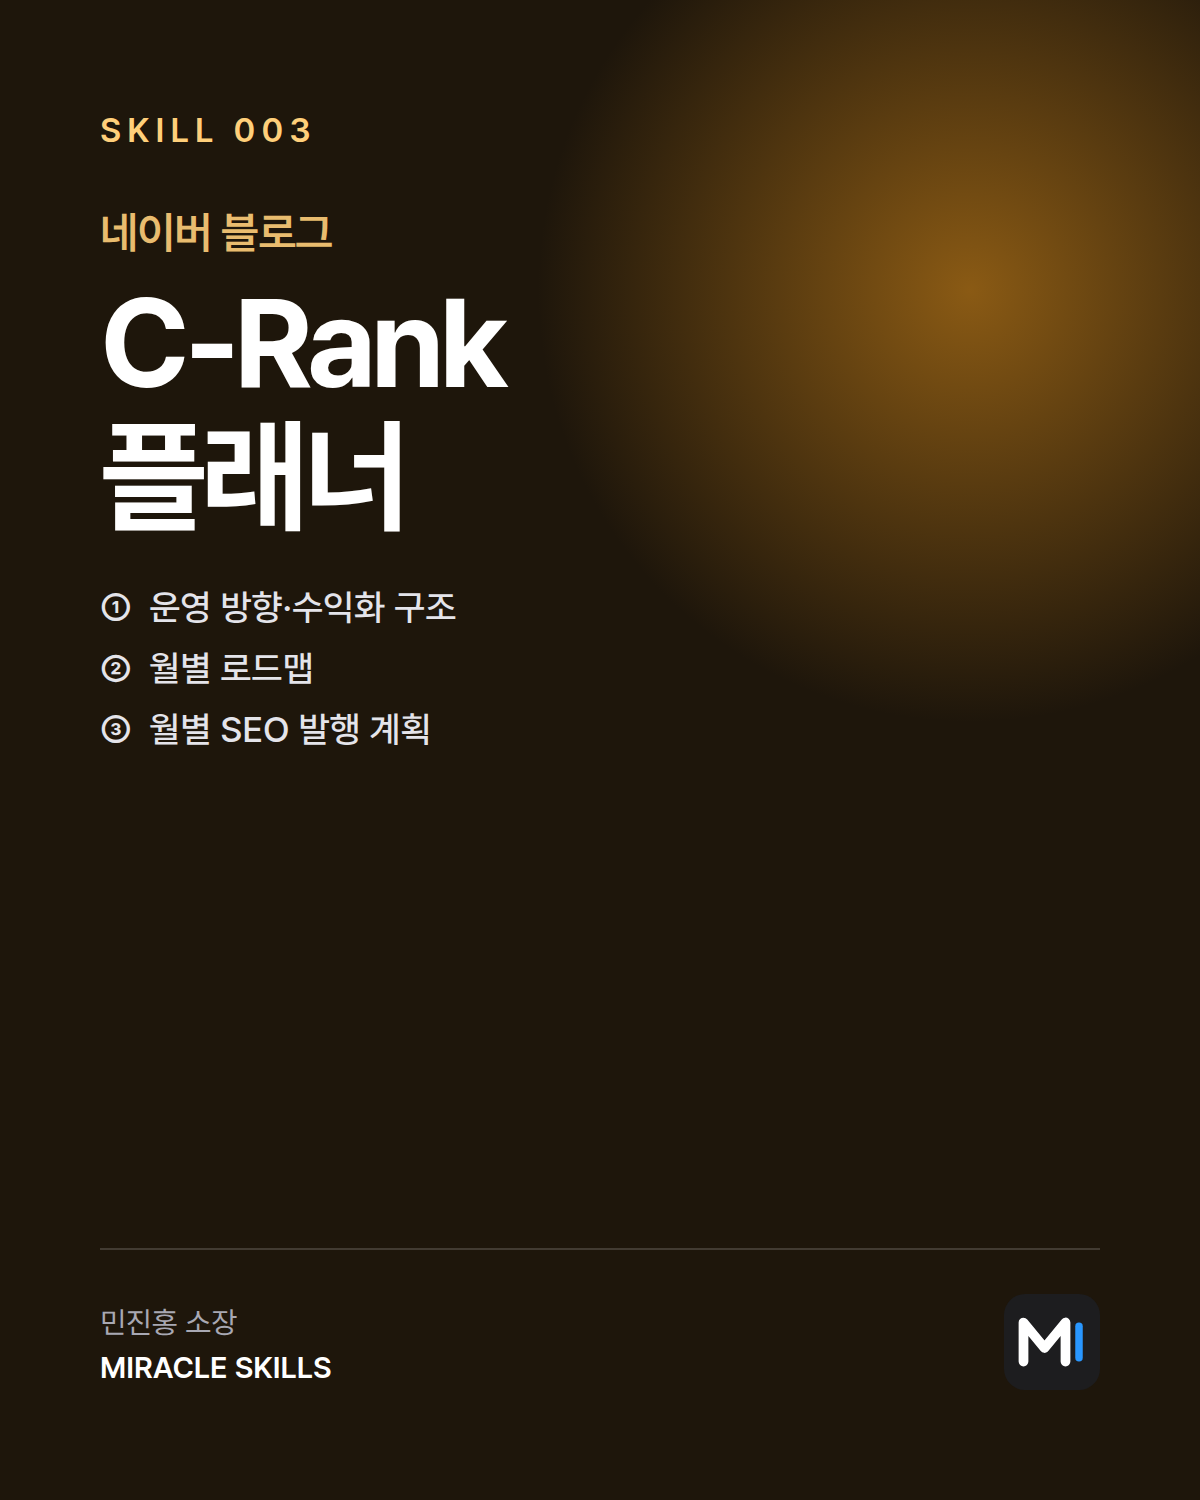
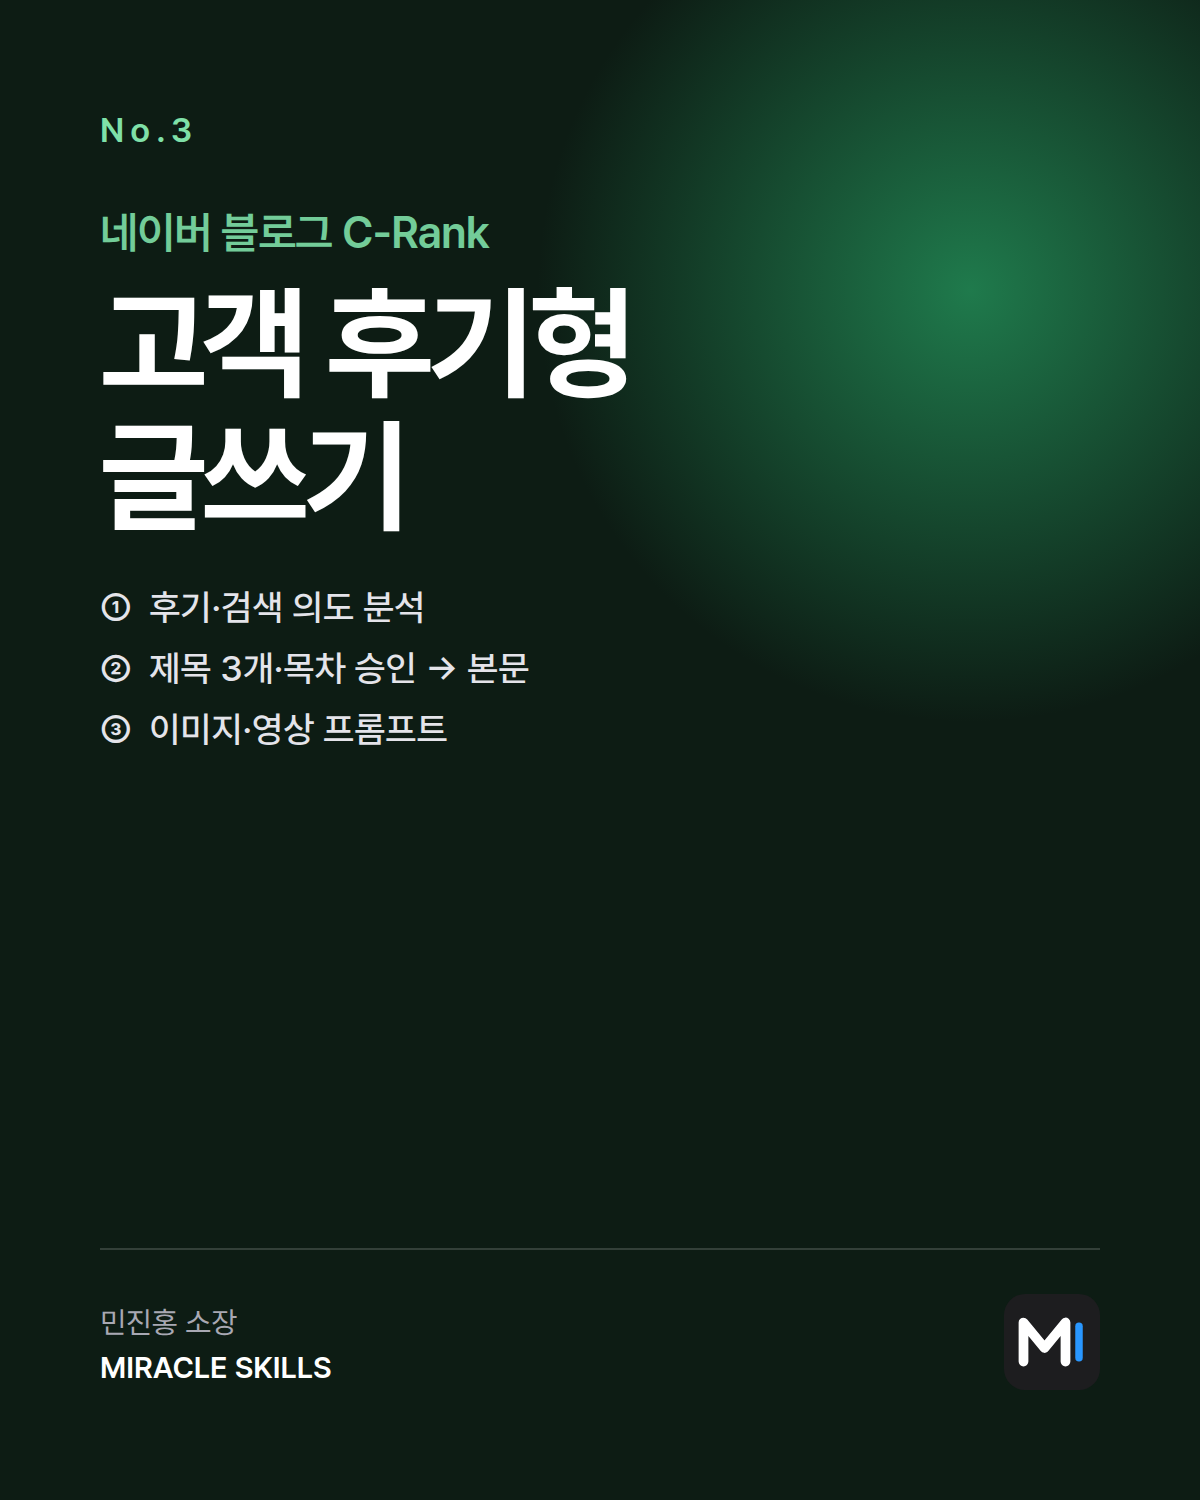
스킬 9개 넘버링(No.1~9)으로 재정렬, 전자책 스킬 3개 추가
- No.1 SNS 멀티플랫폼 ~ No.6 C-Rank 플래너 순서로 파일 번호와 제목 정리
- No.7 전자책 출판 지원 솔루션, No.8 기존 원고 기반 전자책 제작, No.9 처음부터 전자책 제작 1 추가
- 표지 9개를 No. 번호로 다시 생성, 화면 번호 표시를 SKILL 001 → No.1로 변경

Claude-Session: https://claude.ai/code/session_01RKeS3wnK7x6F4KLYFL4mie

Changed region(s): [[0.0617, 0.0, 1.0, 0.46], [0.1233, 0.3987, 0.4317, 0.5213], [0.0925, 0.0613, 0.2775, 0.092]]

diff --git a/skills-data.js b/skills-data.js
@@ -16,26 +16,26 @@ window.SKILLS = [
   {
     "id": "001",
     "no": 1,
-    "title": "네이버 블로그 C-Rank·고객 후기형 SEO 글쓰기",
-    "summary": "실제 고객 후기를 바탕으로 신뢰할 수 있는 네이버 블로그 글과 이미지·영상 프롬프트를 설계합니다.",
+    "title": "SNS 멀티플랫폼 (X, 인스타그램, 스레드, 페이스북) 콘텐츠 제작",
+    "summary": "하나의 자료를 SNS 4개 플랫폼에 맞게 재구성하고, 추천 게시물과 이미지 프롬프트를 준비합니다.",
     "month": "2026-10",
     "always": false,
     "tags": [
-      "네이버블로그",
-      "C-Rank",
-      "고객후기"
+      "SNS",
+      "인스타그램",
+      "스레드"
     ],
     "price": 110000,
     "memberPrice": 55000,
     "pay": "",
     "memberPay": "",
     "image": "skills/001.png",
-    "body": "## 상품 설명\n\n실제 고객 후기를 중심으로 네이버 블로그 글을 작성하는 스킬입니다. 키워드와 고객 경험에서 검색 의도를 파악해 제목 3개와 목차를 제안합니다. 승인 후 실제 이용 과정과 확인된 내용을 바탕으로 본문·FAQ·해시태그를 작성합니다.\n\n없는 감정이나 성과를 꾸며내지 않고 후기의 의미를 보존합니다. 본문을 평가·보완하고 인포그래픽·실사 이미지 프롬프트를 제공합니다. 행동 자료가 있으면 영상 프롬프트도 설계합니다. 이미지·영상은 생성하지 않으며 복사용 원고를 출력합니다.\n\n## 주요 기능\n\n- 실제 고객 후기·경험을 분석하여 SEO 제목 3개·목차·블로그 본문 작성\n- 고객 사례의 사실성·의미를 보존하며 본문 품질 평가 및 자동 보완\n- 인포그래픽·실사 이미지 프롬프트와 조건부 영상 프롬프트 제공"
+    "body": "## 상품 설명\n\n키워드나 기존 자료를 X, 인스타그램, 스레드, 페이스북에 맞게 재구성하는 스킬입니다. 플랫폼별 글 길이와 문체, 템플릿을 반영해 게시물 후보를 만들고 고객과 핵심 메시지에 적합한 추천안을 선정합니다.\n\n게시 목적과 고객을 확인한 뒤 플랫폼별 추천 게시물 3개와 추천 이유를 제공합니다. X·인스타그램·페이스북에는 인포그래픽과 실사 이미지 프롬프트도 제시합니다. 중간 평가와 승인 후 수정본과 최종 평가를 출력하며, 확인되지 않은 경험이나 성과는 추가하지 않습니다.\n\n## 주요 기능\n\n- X·인스타그램·스레드·페이스북별 콘텐츠 재구성 및 20개 전용 템플릿 활용\n- 플랫폼별 게시물 후보 평가 및 상위 3개 추천안과 추천 이유 제공\n- 인포그래픽·실사 이미지 프롬프트 작성 및 승인 기반 품질 평가·수정"
   },
   {
     "id": "002",
     "no": 2,
-    "title": "네이버 블로그 C-Rank·경험형 SEO 글쓰기",
+    "title": "네이버 블로그 C-Rank·경험형 글쓰기",
     "summary": "검색 의도에 맞는 네이버 블로그 글과 이미지·영상 제작 프롬프트를 함께 설계하는 글쓰기 스킬입니다.",
     "month": "2026-10",
     "always": false,
@@ -54,26 +54,26 @@ window.SKILLS = [
   {
     "id": "003",
     "no": 3,
-    "title": "네이버 블로그 C-Rank 플래너",
-    "summary": "사업과 고객의 고민을 바탕으로 블로그 수익화 방향부터 장기 로드맵과 월별 SEO 발행 계획까지 설계합니다.",
+    "title": "네이버 블로그 C-Rank 고객 후기형 글쓰기",
+    "summary": "실제 고객 후기를 바탕으로 신뢰할 수 있는 네이버 블로그 글과 이미지·영상 프롬프트를 설계합니다.",
     "month": "2026-10",
     "always": false,
     "tags": [
       "네이버블로그",
       "C-Rank",
-      "운영계획"
+      "고객후기"
     ],
     "price": 110000,
     "memberPrice": 55000,
     "pay": "",
     "memberPay": "",
     "image": "skills/003.png",
-    "body": "## 상품 설명\n\n사업 분야와 핵심 고객, 고객이 겪는 문제를 확인해 네이버 블로그 운영 방향과 수익화 연결 구조를 설계합니다. 콘텐츠 카테고리와 비중을 제안하고 승인을 받아 원하는 운영 기간의 월별 로드맵을 작성합니다.\n\n첫 달에는 발행 횟수에 맞춰 SEO 제목과 검색 의도, 콘텐츠 역할을 담은 글별 계획을 제공합니다. 이후 누적 콘텐츠의 중복과 포화 가능성을 분석해 다음 달 계획을 확장하며, 확인되지 않은 실적이나 상품은 사실처럼 제시하지 않습니다.\n\n## 주요 기능\n\n- 사업·고객 문제 분석을 통한 블로그 운영 방향 및 수익화 구조 설계\n- 콘텐츠 카테고리·비중 설정과 승인된 운영 기간의 월별 로드맵 작성\n- 첫 달 SEO 발행 계획 수립 및 중복·포화 분석을 통한 월별 콘텐츠 확장"
+    "body": "## 상품 설명\n\n실제 고객 후기를 중심으로 네이버 블로그 글을 작성하는 스킬입니다. 키워드와 고객 경험에서 검색 의도를 파악해 제목 3개와 목차를 제안합니다. 승인 후 실제 이용 과정과 확인된 내용을 바탕으로 본문·FAQ·해시태그를 작성합니다.\n\n없는 감정이나 성과를 꾸며내지 않고 후기의 의미를 보존합니다. 본문을 평가·보완하고 인포그래픽·실사 이미지 프롬프트를 제공합니다. 행동 자료가 있으면 영상 프롬프트도 설계합니다. 이미지·영상은 생성하지 않으며 복사용 원고를 출력합니다.\n\n## 주요 기능\n\n- 실제 고객 후기·경험을 분석하여 SEO 제목 3개·목차·블로그 본문 작성\n- 고객 사례의 사실성·의미를 보존하며 본문 품질 평가 및 자동 보완\n- 인포그래픽·실사 이미지 프롬프트와 조건부 영상 프롬프트 제공"
   },
   {
     "id": "004",
     "no": 4,
-    "title": "네이버 검색형 웹툰 블로그 제작",
+    "title": "네이버 블로그 C-Rank 웹툰형 글쓰기",
     "summary": "검색 의도에 맞춘 블로그 글과 캐릭터가 이어지는 웹툰·영상 제작 프롬프트를 함께 설계합니다.",
     "month": "2026-10",
     "always": false,
@@ -92,26 +92,7 @@ window.SKILLS = [
   {
     "id": "005",
     "no": 5,
-    "title": "SNS 멀티플랫폼 콘텐츠 제작",
-    "summary": "하나의 자료를 SNS 4개 플랫폼에 맞게 재구성하고, 추천 게시물과 이미지 프롬프트를 준비합니다.",
-    "month": "2026-10",
-    "always": false,
-    "tags": [
-      "SNS",
-      "인스타그램",
-      "스레드"
-    ],
-    "price": 110000,
-    "memberPrice": 55000,
-    "pay": "",
-    "memberPay": "",
-    "image": "skills/005.png",
-    "body": "## 상품 설명\n\n키워드나 기존 자료를 X, 인스타그램, 스레드, 페이스북에 맞게 재구성하는 스킬입니다. 플랫폼별 글 길이와 문체, 템플릿을 반영해 게시물 후보를 만들고 고객과 핵심 메시지에 적합한 추천안을 선정합니다.\n\n게시 목적과 고객을 확인한 뒤 플랫폼별 추천 게시물 3개와 추천 이유를 제공합니다. X·인스타그램·페이스북에는 인포그래픽과 실사 이미지 프롬프트도 제시합니다. 중간 평가와 승인 후 수정본과 최종 평가를 출력하며, 확인되지 않은 경험이나 성과는 추가하지 않습니다.\n\n## 주요 기능\n\n- X·인스타그램·스레드·페이스북별 콘텐츠 재구성 및 20개 전용 템플릿 활용\n- 플랫폼별 게시물 후보 평가 및 상위 3개 추천안과 추천 이유 제공\n- 인포그래픽·실사 이미지 프롬프트 작성 및 승인 기반 품질 평가·수정"
-  },
-  {
-    "id": "006",
-    "no": 6,
-    "title": "네이버 블로그 C-Rank·정보형 SEO 글쓰기",
+    "title": "네이버 블로그 C-Rank 정보형 글쓰기",
     "summary": "검색 의도에 맞는 정보형 블로그 글과 이미지·영상 제작 프롬프트를 함께 설계하는 스킬입니다.",
     "month": "2026-10",
     "always": false,
@@ -124,7 +105,83 @@ window.SKILLS = [
     "memberPrice": 55000,
     "pay": "",
     "memberPay": "",
-    "image": "skills/006.png",
+    "image": "skills/005.png",
     "body": "## 상품 설명\n\n키워드와 전문 자료를 바탕으로 네이버 정보형 블로그 글을 작성합니다. 검색 질문을 분석해 SEO 제목 3개와 목차를 제안하고, 승인 후 개념·판단 기준·방법·주의사항을 담은 본문과 FAQ·해시태그를 작성합니다.\n\n검색 적합성·사실성·최신성·정보 가치를 평가하고 보완합니다. 본문에 맞는 이미지 삽입 위치와 인포그래픽·실사 이미지 프롬프트, 영상 프롬프트를 설계해 일관성을 검수합니다. 실제 이미지·영상은 생성하지 않고 복사용 원고와 프롬프트를 제공합니다.\n\n## 주요 기능\n\n- 검색 의도 분석 및 SEO 제목 3개·목차·정보형 블로그 본문 작성\n- 검색 적합성·전문성·정보 가치·최신성 평가 및 자동 보완\n- 인포그래픽·실사 이미지와 영상 제작 프롬프트 및 복사용 원고 제공"
+  },
+  {
+    "id": "006",
+    "no": 6,
+    "title": "네이버 블로그 C-Rank 플래너",
+    "summary": "사업과 고객의 고민을 바탕으로 블로그 수익화 방향부터 장기 로드맵과 월별 SEO 발행 계획까지 설계합니다.",
+    "month": "2026-10",
+    "always": false,
+    "tags": [
+      "네이버블로그",
+      "C-Rank",
+      "운영계획"
+    ],
+    "price": 110000,
+    "memberPrice": 55000,
+    "pay": "",
+    "memberPay": "",
+    "image": "skills/006.png",
+    "body": "## 상품 설명\n\n사업 분야와 핵심 고객, 고객이 겪는 문제를 확인해 네이버 블로그 운영 방향과 수익화 연결 구조를 설계합니다. 콘텐츠 카테고리와 비중을 제안하고 승인을 받아 원하는 운영 기간의 월별 로드맵을 작성합니다.\n\n첫 달에는 발행 횟수에 맞춰 SEO 제목과 검색 의도, 콘텐츠 역할을 담은 글별 계획을 제공합니다. 이후 누적 콘텐츠의 중복과 포화 가능성을 분석해 다음 달 계획을 확장하며, 확인되지 않은 실적이나 상품은 사실처럼 제시하지 않습니다.\n\n## 주요 기능\n\n- 사업·고객 문제 분석을 통한 블로그 운영 방향 및 수익화 구조 설계\n- 콘텐츠 카테고리·비중 설정과 승인된 운영 기간의 월별 로드맵 작성\n- 첫 달 SEO 발행 계획 수립 및 중복·포화 분석을 통한 월별 콘텐츠 확장"
+  },
+  {
+    "id": "007",
+    "no": 7,
+    "title": "전자책 출판 지원 솔루션",
+    "summary": "책 주제 발굴부터 목차와 본문 작성, 소개문과 홍보 콘텐츠까지 12단계로 안내하는 출판 지원 스킬입니다.",
+    "month": "2026-10",
+    "always": false,
+    "tags": [
+      "전자책",
+      "출판",
+      "홍보"
+    ],
+    "price": 110000,
+    "memberPrice": 55000,
+    "pay": "",
+    "memberPay": "",
+    "image": "skills/007.png",
+    "body": "## 상품 설명\n\n책을 쓰고 싶지만 주제 선정부터 원고 구성까지 무엇을 먼저 해야 할지 막막한 분을 위한 스킬입니다. 강점과 관심, 독자의 고민을 바탕으로 책 주제를 정하고 제목·부제·대상 독자·제공 가치·차별화 요소를 단계별로 구체화합니다.\n\n확정한 기획으로 실행 절차와 7장 목차를 구성하고, 각 장의 승인 후 본문을 작성합니다. 집필이 끝나면 책 소개문과 검색 키워드, 채널별 홍보 콘텐츠까지 준비합니다. 질문은 순서대로 진행하며 이미 확정한 정보는 다음 단계에 반영합니다.\n\n## 주요 기능\n\n- 책 기획: 주제 발굴부터 제목·부제·독자 설정·차별화 요소까지 단계별 기획\n- 목차 및 본문 작성: 7장 목차 구성과 장별 승인에 따른 본문 작성\n- 출판 홍보 콘텐츠: 책 소개문, 검색 키워드 7개, 채널별 홍보 콘텐츠 작성"
+  },
+  {
+    "id": "008",
+    "no": 8,
+    "title": "기존 원고 기반 전자책 제작",
+    "summary": "기존 블로그 글과 원고를 전자책 목차와 본문으로 재구성하고, 제목 확정과 출간 준비까지 돕습니다.",
+    "month": "2026-10",
+    "always": false,
+    "tags": [
+      "전자책",
+      "원고",
+      "리라이팅"
+    ],
+    "price": 110000,
+    "memberPrice": 55000,
+    "pay": "",
+    "memberPay": "",
+    "image": "skills/008.png",
+    "body": "## 상품 설명\n\n블로그 글, 브런치 글, 기존 원고를 전자책으로 재구성하는 스킬입니다. 원문의 주장과 사례, 수치를 유지하면서 책의 흐름에 맞는 목차를 제안합니다. 새로운 사실을 임의로 추가하지 않고 제공된 자료만 활용합니다.\n\n원고를 입력하면 목차 승인 후 들어가며, 각 장, 마무리 순서로 본문을 리라이팅합니다. 장별 구성을 확인받고 확정된 소제목을 빠짐없이 작성합니다. 본문 완성 후 제목 후보를 제시하며 책 소개문, 표지 방향, 저자 소개와 전자책 업로드 방법도 안내합니다.\n\n## 주요 기능\n\n- 기존 블로그·브런치 글과 원고를 분석하여 전자책 전체 구성과 목차 설계\n- 목차 및 장별 승인 후 원문의 핵심 내용을 보존하며 본문 리라이팅\n- 전자책 제목 후보 생성과 책 소개문·표지 방향·출간 준비 지원"
+  },
+  {
+    "id": "009",
+    "no": 9,
+    "title": "처음부터 전자책 제작 1",
+    "summary": "주제 선정부터 목차와 본문 집필, 제목 확정까지 단계별 질문과 확인으로 전자책 제작을 돕습니다.",
+    "month": "2026-10",
+    "always": false,
+    "tags": [
+      "전자책",
+      "집필",
+      "기획"
+    ],
+    "price": 110000,
+    "memberPrice": 55000,
+    "pay": "",
+    "memberPay": "",
+    "image": "skills/009.png",
+    "body": "## 상품 설명\n\n전자책을 쓰고 싶지만 시작이 막막한 분을 위한 제작 스킬입니다. 주제가 없어도 질문과 선택지로 아이디어를 탐색하고 예상 독자와 책의 방향을 정리합니다. 확정된 내용을 바탕으로 목차를 구성하며 중요한 단계마다 확인을 받습니다.\n\n목차 승인 후 들어가며부터 마무리까지 한 장씩 집필하고 수정 의견을 반영합니다. 본문을 완성하면 여러 제목을 제안하고 원하는 출간 준비 범위를 확인합니다. 단계별 승인과 문장 작성 규칙을 적용하며 원고를 순서대로 완성하도록 지원합니다.\n\n## 주요 기능\n\n- 주제 탐색부터 예상 독자 설정, 집필 방향 정리까지 단계별 기획 지원\n- 목차 승인 후 장별 본문 작성과 사용자 의견을 반영한 수정 진행\n- 완성 원고에 맞는 제목 후보 제안 및 출간 준비 과정 안내"
   }
 ];

diff --git a/app.js b/app.js
@@ -17,7 +17,6 @@
     return Math.max(0, Math.ceil((end - NOW.getTime()) / 86400000));
   }
   function won(n) { return Number(n).toLocaleString("ko-KR") + "원"; }
-  function pad3(n) { return String(n).padStart(3, "0"); }
 
   /* 상태: open(이달 판매 중) · always(상시) · ended(판매 종료) · soon(공개 예정) */
   function status(s) {
@@ -103,7 +102,7 @@
     b.querySelector("img").src = s.image;
     b.querySelector("img").alt = s.title;
     b.querySelector(".frame").appendChild(badge(s));
-    b.querySelector(".no").textContent = "SKILL " + pad3(s.no || 0);
+    b.querySelector(".no").textContent = "No." + (s.no || 0);
     b.querySelector(".t").textContent = s.title;
     b.querySelector(".p").textContent = canBuy(s) ? won(s.price) + " · 회원 " + won(s.memberPrice) : (s.summary || "");
     b.addEventListener("click", function () { openSkill(s); });
@@ -221,7 +220,7 @@
     document.getElementById("d-img").alt = s.title;
     var meta = document.getElementById("d-meta");
     meta.innerHTML = "";
-    var no = document.createElement("span"); no.textContent = "SKILL " + pad3(s.no || 0); meta.appendChild(no);
+    var no = document.createElement("span"); no.textContent = "No." + (s.no || 0); meta.appendChild(no);
     meta.appendChild(badge(s));
     (s.tags || []).forEach(function (t) { var e = document.createElement("span"); e.textContent = "#" + t; meta.appendChild(e); });
     document.getElementById("d-title").textContent = s.title;

diff --git a/inquiry.html b/inquiry.html
@@ -108,7 +108,6 @@
   "use strict";
   var SITE = window.SITE || {}, SKILLS = window.SKILLS || [];
   function won(n) { return Number(n).toLocaleString("ko-KR") + "원"; }
-  function pad3(n) { return String(n).padStart(3, "0"); }
   var params = new URLSearchParams(location.search);
   var id = params.get("skill");
   var s = SKILLS.filter(function (x) { return x.id === id; })[0];
@@ -118,7 +117,7 @@
   var img = document.getElementById("iq-img");
   if (s) {
     img.src = s.image; img.alt = s.title;
-    document.getElementById("iq-no").textContent = "SKILL " + pad3(s.no || 0);
+    document.getElementById("iq-no").textContent = "No." + (s.no || 0);
     document.getElementById("iq-title").textContent = s.title;
     document.getElementById("iq-summary").textContent = s.summary || "";
     document.getElementById("iq-price").textContent = won(s.price);
@@ -148,7 +147,7 @@
   SKILLS.forEach(function (x) {
     var c = document.createElement("a");
     c.href = "inquiry.html?skill=" + encodeURIComponent(x.id);
-    c.textContent = x.title;
+    c.textContent = "No." + x.no + " " + x.title;
     if (s && x.id === s.id) c.setAttribute("aria-current", "true");
     chips.appendChild(c);
   });
